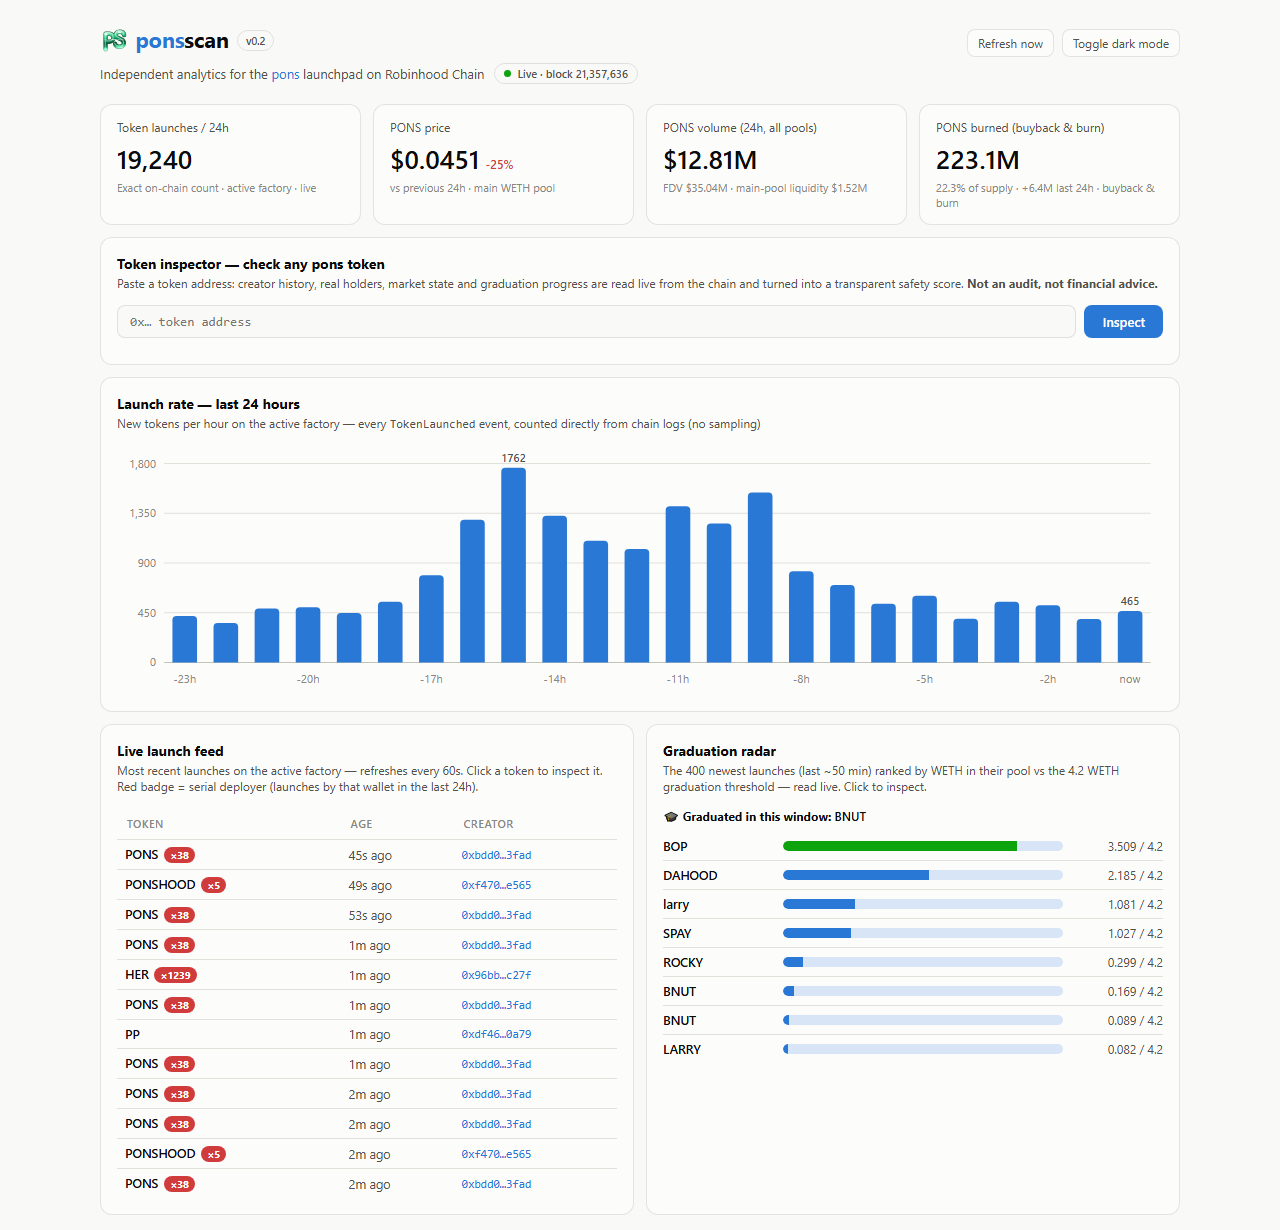
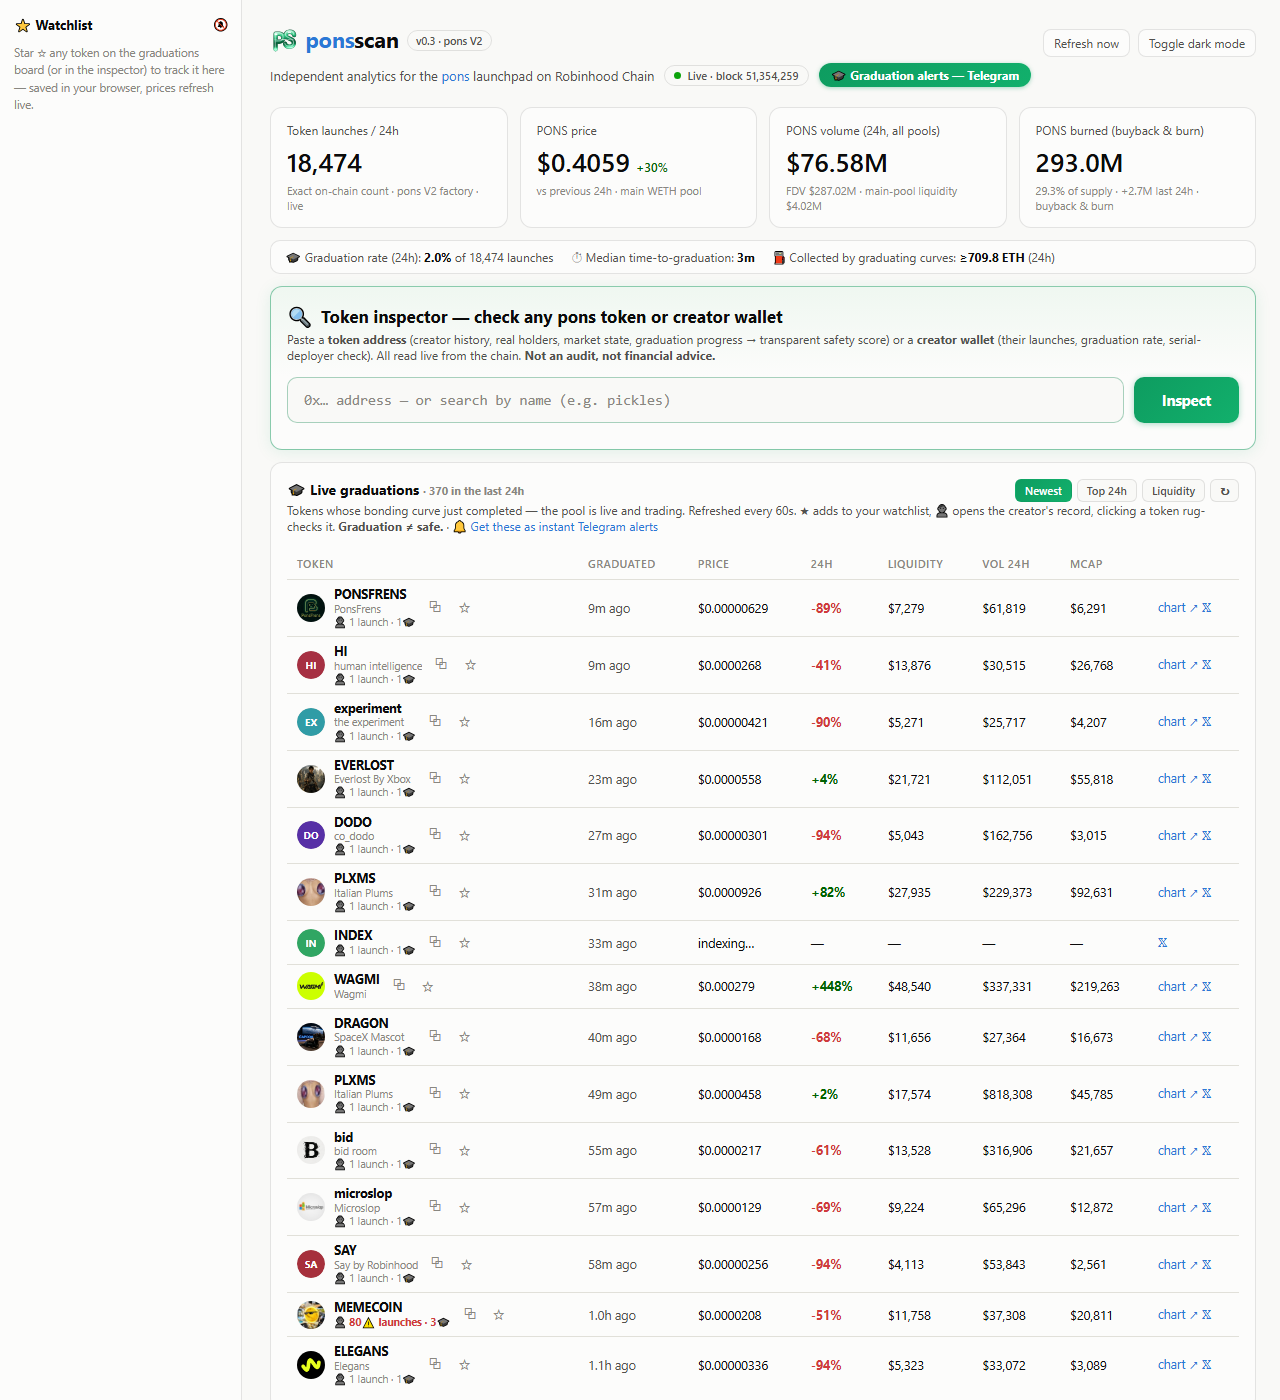
Audit fixes: global RPC rate-limit queue, symbol cache retry, fresh docs
- Serialize all RPC traffic (~200ms spacing) - eliminates 429 cascades at
  page load; radar now populates on first pass
- Failed symbol lookups no longer cache the address permanently
- README rewritten for V2 feature set; new screenshot (also the OG image)

diff --git a/index.html b/index.html
@@ -514,7 +514,21 @@
     throw lastErr;
   }
   let rpcId = 1;
+  // Global limiter: the public RPC rate-limits bursts (and its 429s carry a broken
+  // CORS header the browser can't even read), so serialize requests ~200ms apart.
+  let rpcQueue = Promise.resolve();
+  let rpcLast = 0;
+  function rpcSlot() {
+    const turn = rpcQueue.then(async () => {
+      const wait = 200 - (Date.now() - rpcLast);
+      if (wait > 0) await sleep(wait);
+      rpcLast = Date.now();
+    });
+    rpcQueue = turn.catch(() => { /* keep queue alive */ });
+    return turn;
+  }
   async function rpc(method, params, timeoutMs) {
+    await rpcSlot();
     const ctrl = new AbortController();
     const to = setTimeout(() => ctrl.abort(), timeoutMs || 30000);
     try {
@@ -531,6 +545,7 @@
   }
   async function rpcBatch(calls, timeoutMs) {
     if (!calls.length) return [];
+    await rpcSlot();
     const ctrl = new AbortController();
     const to = setTimeout(() => ctrl.abort(), timeoutMs || 45000);
     try {
@@ -787,8 +802,8 @@
       const batch = need.slice(i, i + 40);
       try {
         const res = await retry(() => rpcBatch(batch.map(a => ethCall(a, '0x95d89b41'))), 2, 800);
-        res.forEach((r, j) => symbolCache.set(batch[j], decodeAbiString(r) || shortAddr(batch[j])));
-      } catch (e) { batch.forEach(a => { if (!symbolCache.has(a)) symbolCache.set(a, shortAddr(a)); }); }
+        res.forEach((r, j) => { const s = decodeAbiString(r); if (s) symbolCache.set(batch[j], s); });
+      } catch (e) { /* leave uncached so a later pass can retry; sym() falls back to shortAddr */ }
       if (i + 40 < need.length) await sleep(300);
     }
   }

diff --git a/README.md b/README.md
@@ -1,6 +1,6 @@
 # <img src="logo.svg" height="36" alt=""> PonsScan
 
-Independent analytics & safety dashboard for the [pons](https://ponsfamily.com) launchpad on **Robinhood Chain** — a single self-contained HTML file that reads the chain directly from your browser. No backend, no API keys, no wallet connection.
+Independent analytics & safety dashboard for the [pons](https://ponsfamily.com) **V2** launchpad on **Robinhood Chain** — a single self-contained HTML file that reads the chain directly from your browser. No backend, no API keys, no wallet connection.
 
 **🔴 Live: [ponsscan.xyz](https://ponsscan.xyz)** · 🎓 [Graduation alerts on Telegram](https://t.me/ponsscan) · 𝕏 [@Argostroloji](https://x.com/Argostroloji)
 
@@ -8,38 +8,31 @@ Independent analytics & safety dashboard for the [pons](https://ponsfamily.com) 
 
 ## Features
 
-- **🔍 Token inspector (rug-check)** — paste any token address and get: creator + their serial-launch history, real (non-pool) holder count, market state, graduation progress and a transparent 0–100 safety score with every factor spelled out
-- **📊 Exact launch rate** — every `TokenLaunched` event from the last 24h counted straight from chain logs (no sampling, no extrapolation), bucketed per hour
-- **⚡ Live launch feed** — newest launches with age and creator; serial deployers get a red ×N badge; click any token to inspect it
-- **🎓 Graduation radar** — the newest launches ranked by WETH accumulated in their pool vs the 4.2 WETH graduation threshold, plus tokens that just graduated
-- **🔥 PONS burn tracker** — total PONS in the burn address (buyback & burn), % of supply, and how much was burned in the last 24h
-- **👥 Creator concentration** — distinct creators, top-deployer share and serial-wallet counts over the full 24h window
-- **💰 PONS token metrics** — price, volume, liquidity, FDV across pools
+- **🔍 Token Inspector (rug-check)** — paste any address *or search by name*: creator + their serial-launch history, real (non-pool) holder count, market state, graduation status and a transparent 0–100 safety score — plus an embedded live chart for graduated tokens. Works for **creator wallets** too (their launches, graduation rate, serial-deployer check). Deep-linkable via `?token=0x…`.
+- **🎓 Live Graduations board** — every token whose bonding curve just completed, with logo, price, 24h change, liquidity, volume and market cap; sortable by Newest / Top 24h / Liquidity; refreshed every 60s straight from the factory's graduation events.
+- **⭐ Watchlist** — star any token into a DexScreener-style sidebar (saved in your browser). Pre-graduation tokens show their live curve progress bar; optional browser notifications on graduation or ±50% moves.
+- **👤 Creator scorecards** — every graduated token carries its creator's 24h record (launches + graduations); serial deployers are flagged in red. One click opens the full creator profile.
+- **📊 Exact launch metrics** — every V2 `TokenLaunched` event from the last 24h counted from chain logs (no sampling), hourly rate chart, live launch feed with serial-deployer badges.
+- **🎯 Graduation radar** — the newest ETH-quoted launches ranked by ETH accumulated on their bonding curve vs their own graduation threshold, with 🔥 buy-velocity badges.
+- **📈 Ecosystem health strip** — graduation rate, median time-to-graduation and total ETH collected by graduating curves over 24h. Data published nowhere else.
+- **🔥 PONS burn tracker** — live total burned by the buyback-and-burn engine, including the last 24h.
 
 ## How it works
 
-Everything runs client-side:
+Everything runs client-side against public endpoints:
 
-- **Robinhood Chain RPC** (`rpc.mainnet.chain.robinhood.com`) — `TokenLaunched` logs, WETH pool balances, burn-address balance, token metadata via `eth_call` (CORS-open, batched, rate-limit-aware with backoff)
-- **DexScreener API** — prices, volumes, liquidity
+- **Robinhood Chain RPC** — `TokenLaunched` + graduation event logs, curve balances, burn address, token metadata (rate-limit-aware: global request queue, batching, backoff)
+- **DexScreener API** — prices, volumes, liquidity, logos, name search *(market data is only trusted for pools with real liquidity — curve-phase "pools" carry phantom prices and are shown as curve progress instead)*
 - **Blockscout API** — token holder lists
-- Contract addresses & event signatures from [docs.ponsfamily.com](https://docs.ponsfamily.com)
-
-The launch feed refreshes every 60s, market/burn/radar data every 5 minutes, and the full 24h scan every 30 minutes. If the RPC is unreachable, the page falls back to a baked-in snapshot (the pill in the header shows which mode is active).
 
 ## Safety score
 
-Rule-based and fully transparent: base 50 · single-launch creator +20, repeat −5, serial (≥5 in window) −25 · actively traded +10, quiet +5, not indexed −10 · ≥3 real holders +15, 1–2 +5, zero holders despite >$1K volume −30 (wash-trading signal) · graduated +10. Clamped to 5–95.
+Rule-based and fully transparent: base 50 · single-launch creator +20, repeat −5, serial (≥5 in window) −25 · actively traded +10, quiet +5, no live pool yet −10 · ≥3 real holders +15, 1–2 +5, zero holders despite >$1K volume −30 (wash-trading signal) · graduated +10. Clamped to 5–95. A **heuristic screen, not a contract audit**.
 
-It is a **heuristic screen, not a contract audit**, and nothing here is financial advice.
+## PonsScanBot
 
-## Roadmap (v1)
-
-- Full event indexer (all launches since factory deploy, both factories)
-- Public REST API + WebSocket stream
-- Full per-creator history (beyond the ~28h log window) and calibrated scoring
-- Graduation alerts
+The companion Telegram bot ([t.me/ponsscan](https://t.me/ponsscan)) watches the V2 factory's graduation events 24/7 and announces every graduation the moment it happens on-chain — with time-to-graduation, serial-creator warnings and a one-tap PonsScan rug-check link.
 
 ## Disclaimer
 
-Independent community project — not affiliated with pons or Robinhood. The safety score is a heuristic screen, **not** a contract audit. Nothing here is financial advice.
+Independent community project — not affiliated with pons or Robinhood. Graduation ≠ safe. Nothing here is financial advice.
